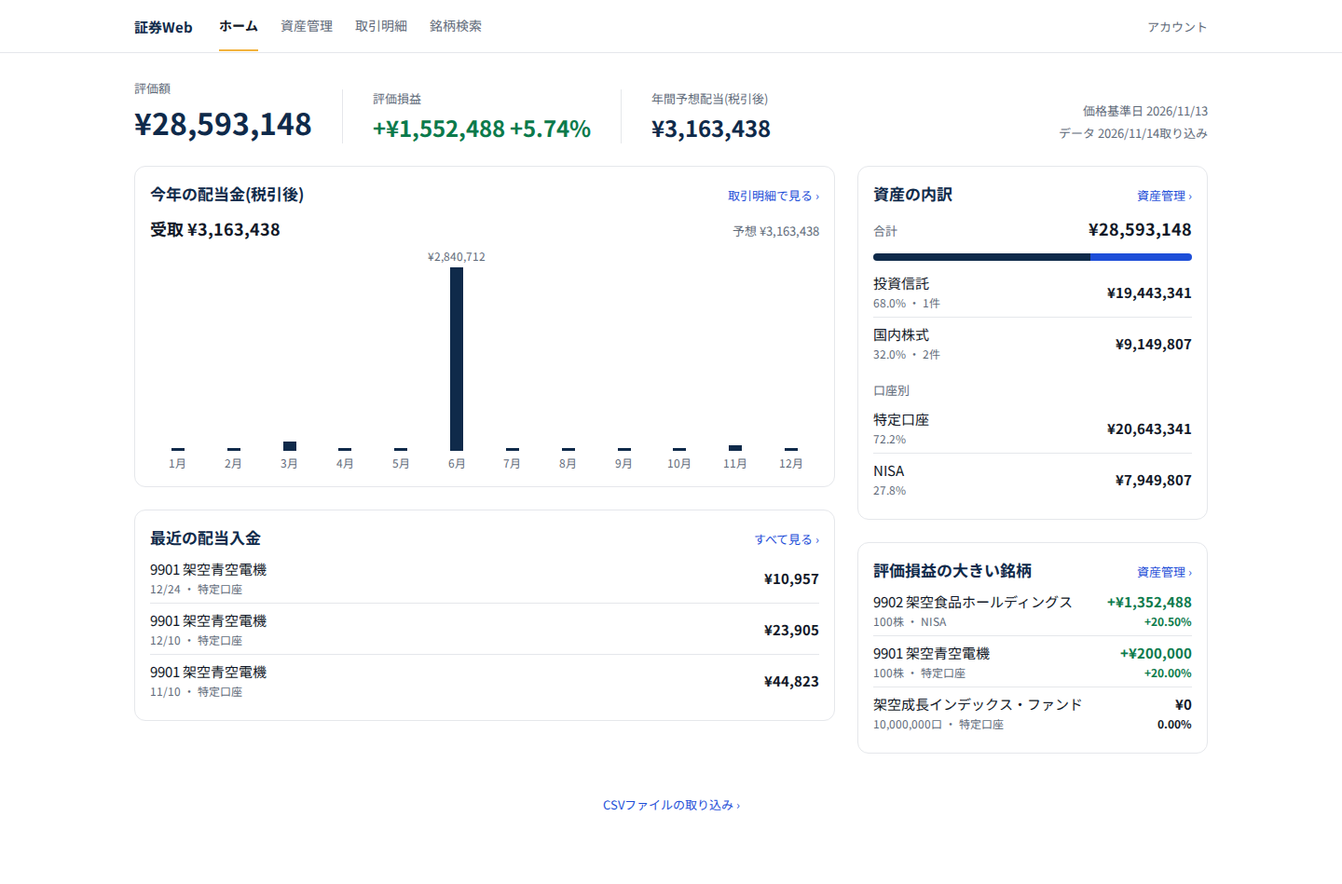
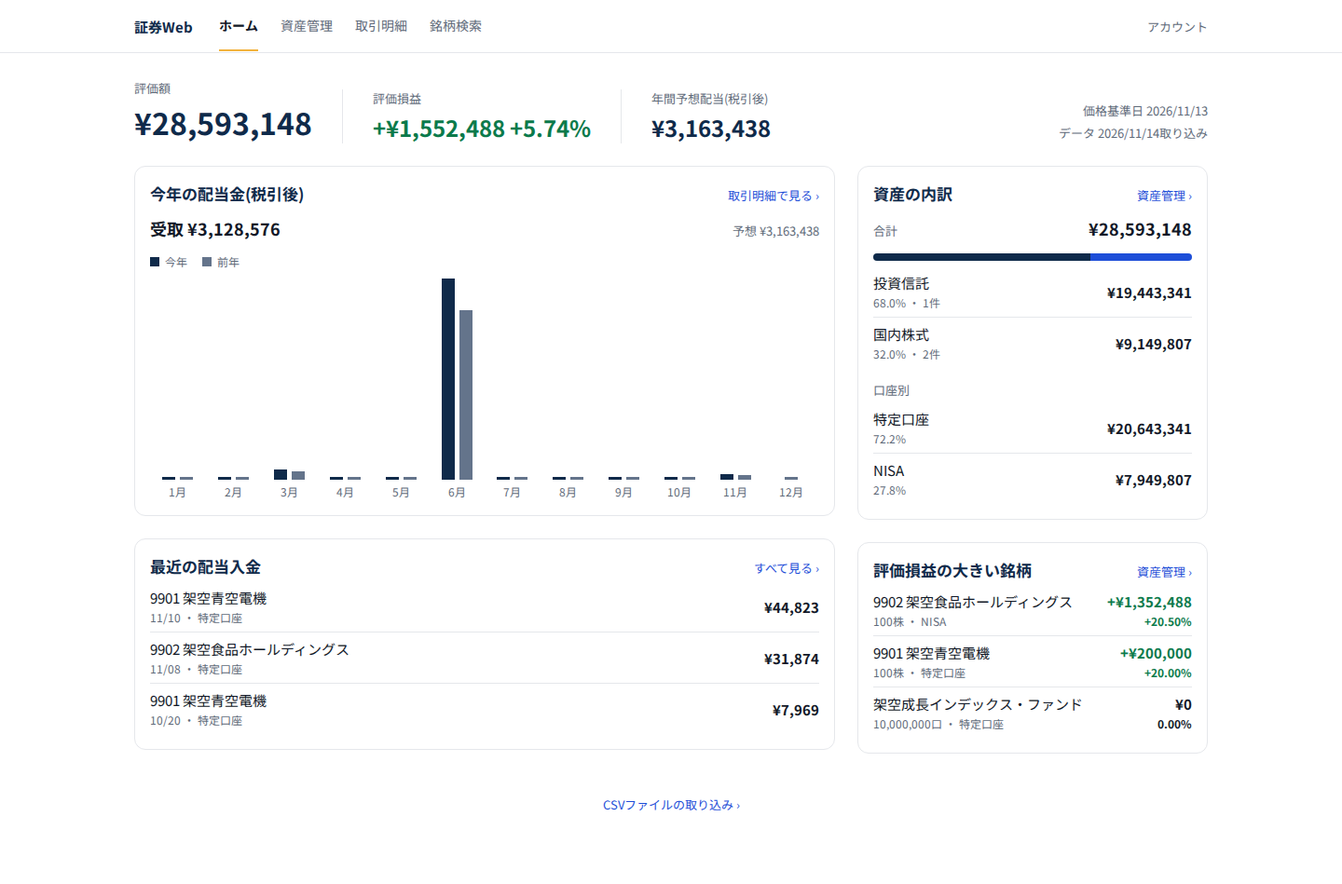
ホーム新案の差し戻し対応: 配当グラフを今年/前年の2本並び(共に税引後)に復元、受取は基準日までの税引後・最近は基準日以前の直近3件、build 402 asserts通過

Changed region(s): [[0.0938, 0.275, 0.625, 0.8251], [0.125, 0.2445, 0.2188, 0.3056]]

diff --git a/docs/design/work/phase8-visual/home-pc.html b/docs/design/work/phase8-visual/home-pc.html
@@ -8,7 +8,7 @@
 <link rel="preconnect" href="https://fonts.gstatic.com" crossorigin>
 <link href="https://fonts.googleapis.com/css2?family=Noto+Sans+JP:wght@400;700&display=swap" rel="stylesheet">
 <style>
-/* 数値は docs/design/work/phase5-codex/data/fixtures.json の架空データ(評価額 ¥28,593,148、評価損益 +¥1,552,488 +5.74%、年間予想配当(税引後) ¥3,163,438、受取(税引後) ¥3,163,438)。色は frontend/style/input.css の現行トークンのみ。面の塗りは棒グラフと割合の横棒だけ。 */
+/* 数値は docs/design/work/phase5-codex/data/fixtures.json の架空データ(評価額 ¥28,593,148、評価損益 +¥1,552,488 +5.74%、年間予想配当(税引後) ¥3,163,438、受取(基準日2026/11/13まで・税引後) ¥3,128,576)。色は frontend/style/input.css の現行トークンのみ。面の塗りは棒グラフと割合の横棒だけ。 */
 :root{
   --page:#ffffff; --card:#ffffff; --ink:#111827; --mut:#5f6b7a; --line:#e5e7eb;
   --navy:#0f2a4a; --accent:#1d4ed8; --up:#0b7a4b; --down:#c0362c;
@@ -76,13 +76,15 @@ body{margin:0; background:var(--page); color:var(--ink);
 .bar100 .a{background:var(--comp-a); width:68.0%}
 .bar100 .b{background:var(--comp-b); width:32.0%}
 .subhead{font-size:13px; color:var(--mut); margin:14px 0 0; white-space:nowrap}
-/* 棒グラフ: 高さ240px。税引後の単棒。月ラベル1〜12月すべて12px。6月に税引後 ¥2,840,712 の値ラベル */
+/* 棒グラフ: 高さ240px。今年と前年の2本並び(どちらも税引後)。月ラベル1〜12月すべて12px、値ラベルなし。12月は基準日後のため今年の棒なし */
+.legend{display:flex; gap:16px; font-size:12px; color:var(--mut); margin-top:14px}
+.legend .sw{display:inline-block; width:10px; height:10px; margin-right:6px}
 .bars{display:flex; align-items:stretch; height:240px; margin-top:8px}
 .bars .g{flex:1; display:flex; flex-direction:column; justify-content:flex-end; align-items:center; min-width:0}
-.bars .pair{flex:1; display:flex; flex-direction:column; align-items:center; justify-content:flex-end; gap:4px; width:100%; min-height:0}
+.bars .pair{flex:1; display:flex; align-items:flex-end; justify-content:center; gap:5px; width:100%; min-height:0}
 .bars .b{width:14px; min-height:3px}
 .bars .b.cur{background:var(--bar-cur)}
-.bars .v{font-size:12px; color:var(--mut); white-space:nowrap; font-variant-numeric:tabular-nums}
+.bars .b.prev{background:var(--bar-prev)}
 .bars .m{font-size:12px; color:var(--mut); height:18px; line-height:18px; white-space:nowrap; margin-top:4px}
 .footlink{display:flex; justify-content:center; align-items:center; min-height:44px; margin-top:32px; font-size:13px; color:var(--accent); white-space:nowrap}
 @media (max-width:900px){
@@ -112,29 +114,30 @@ body{margin:0; background:var(--page); color:var(--ink);
     <div class="col">
       <section class="card" aria-label="今年の配当金">
         <div class="hrow"><h2>今年の配当金(税引後)</h2><span class="more">取引明細で見る ›</span></div>
-        <div class="sum"><span class="recv num">受取 ¥3,163,438</span><span class="fore num">予想 ¥3,163,438</span></div>
-        <div class="bars" role="img" aria-label="月別配当(税引後): 6月 ¥2,840,712に集中">
-          <div class="g"><div class="pair"><span class="b cur" style="height:3px"></span></div><span class="m">1月</span></div>
-          <div class="g"><div class="pair"><span class="b cur" style="height:3px"></span></div><span class="m">2月</span></div>
-          <div class="g"><div class="pair"><span class="b cur" style="height:10px"></span></div><span class="m">3月</span></div>
-          <div class="g"><div class="pair"><span class="b cur" style="height:3px"></span></div><span class="m">4月</span></div>
-          <div class="g"><div class="pair"><span class="b cur" style="height:3px"></span></div><span class="m">5月</span></div>
-          <div class="g"><div class="pair"><span class="v num">¥2,840,712</span><span class="b cur" style="height:205px"></span></div><span class="m">6月</span></div>
-          <div class="g"><div class="pair"><span class="b cur" style="height:3px"></span></div><span class="m">7月</span></div>
-          <div class="g"><div class="pair"><span class="b cur" style="height:3px"></span></div><span class="m">8月</span></div>
-          <div class="g"><div class="pair"><span class="b cur" style="height:3px"></span></div><span class="m">9月</span></div>
-          <div class="g"><div class="pair"><span class="b cur" style="height:3px"></span></div><span class="m">10月</span></div>
-          <div class="g"><div class="pair"><span class="b cur" style="height:6px"></span></div><span class="m">11月</span></div>
-          <div class="g"><div class="pair"><span class="b cur" style="height:3px"></span></div><span class="m">12月</span></div>
+        <div class="sum"><span class="recv num">受取 ¥3,128,576</span><span class="fore num">予想 ¥3,163,438</span></div>
+        <div class="legend"><span><span class="sw" style="background:var(--bar-cur)"></span>今年</span><span><span class="sw" style="background:var(--bar-prev)"></span>前年</span></div>
+        <div class="bars" role="img" aria-label="月別配当(税引後): 今年と前年。12月は基準日後のため今年なし">
+          <div class="g"><div class="pair"><span class="b cur" style="height:3px"></span><span class="b prev" style="height:3px"></span></div><span class="m">1月</span></div>
+          <div class="g"><div class="pair"><span class="b cur" style="height:3px"></span><span class="b prev" style="height:3px"></span></div><span class="m">2月</span></div>
+          <div class="g"><div class="pair"><span class="b cur" style="height:11px"></span><span class="b prev" style="height:9px"></span></div><span class="m">3月</span></div>
+          <div class="g"><div class="pair"><span class="b cur" style="height:3px"></span><span class="b prev" style="height:3px"></span></div><span class="m">4月</span></div>
+          <div class="g"><div class="pair"><span class="b cur" style="height:3px"></span><span class="b prev" style="height:3px"></span></div><span class="m">5月</span></div>
+          <div class="g"><div class="pair"><span class="b cur" style="height:216px"></span><span class="b prev" style="height:182px"></span></div><span class="m">6月</span></div>
+          <div class="g"><div class="pair"><span class="b cur" style="height:3px"></span><span class="b prev" style="height:3px"></span></div><span class="m">7月</span></div>
+          <div class="g"><div class="pair"><span class="b cur" style="height:3px"></span><span class="b prev" style="height:3px"></span></div><span class="m">8月</span></div>
+          <div class="g"><div class="pair"><span class="b cur" style="height:3px"></span><span class="b prev" style="height:3px"></span></div><span class="m">9月</span></div>
+          <div class="g"><div class="pair"><span class="b cur" style="height:3px"></span><span class="b prev" style="height:3px"></span></div><span class="m">10月</span></div>
+          <div class="g"><div class="pair"><span class="b cur" style="height:6px"></span><span class="b prev" style="height:5px"></span></div><span class="m">11月</span></div>
+          <div class="g"><div class="pair"><span class="b prev" style="height:3px"></span></div><span class="m">12月</span></div>
         </div>
       </section>
 
       <section class="card" aria-label="最近の配当入金">
         <div class="hrow"><h2>最近の配当入金</h2><span class="more">すべて見る ›</span></div>
         <div class="rows">
-          <div class="row"><div class="left"><div class="name">9901 架空青空電機</div><span class="sub num">12/24 ・ 特定口座</span></div><span class="amt num">¥10,957</span></div>
-          <div class="row"><div class="left"><div class="name">9901 架空青空電機</div><span class="sub num">12/10 ・ 特定口座</span></div><span class="amt num">¥23,905</span></div>
           <div class="row"><div class="left"><div class="name">9901 架空青空電機</div><span class="sub num">11/10 ・ 特定口座</span></div><span class="amt num">¥44,823</span></div>
+          <div class="row"><div class="left"><div class="name">9902 架空食品ホールディングス</div><span class="sub num">11/08 ・ 特定口座</span></div><span class="amt num">¥31,874</span></div>
+          <div class="row"><div class="left"><div class="name">9901 架空青空電機</div><span class="sub num">10/20 ・ 特定口座</span></div><span class="amt num">¥7,969</span></div>
         </div>
       </section>
     </div>

diff --git a/docs/design/work/phase8-visual/home-mobile.html b/docs/design/work/phase8-visual/home-mobile.html
@@ -8,7 +8,7 @@
 <link rel="preconnect" href="https://fonts.gstatic.com" crossorigin>
 <link href="https://fonts.googleapis.com/css2?family=Noto+Sans+JP:wght@400;700&display=swap" rel="stylesheet">
 <style>
-/* 数値は docs/design/work/phase5-codex/data/fixtures.json の架空データ(評価額 ¥28,593,148、評価損益 +¥1,552,488 +5.74%、年間予想配当(税引後) ¥3,163,438、受取(税引後) ¥3,163,438)。色は frontend/style/input.css の現行トークンのみ。面の塗りは棒グラフと割合の横棒だけ。 */
+/* 数値は docs/design/work/phase5-codex/data/fixtures.json の架空データ(評価額 ¥28,593,148、評価損益 +¥1,552,488 +5.74%、年間予想配当(税引後) ¥3,163,438、受取(基準日2026/11/13まで・税引後) ¥3,128,576)。色は frontend/style/input.css の現行トークンのみ。面の塗りは棒グラフと割合の横棒だけ。 */
 :root{
   --page:#ffffff; --card:#ffffff; --ink:#111827; --mut:#5f6b7a; --line:#e5e7eb;
   --navy:#0f2a4a; --accent:#1d4ed8; --up:#0b7a4b; --down:#c0362c;
@@ -71,13 +71,15 @@ body{margin:0; background:var(--page); color:var(--ink);
 .bar100 .a{background:var(--comp-a); width:68.0%}
 .bar100 .b{background:var(--comp-b); width:32.0%}
 .subhead{font-size:13px; color:var(--mut); margin:14px 0 0; white-space:nowrap}
-/* 棒グラフ: 高さ170px。税引後の単棒。月は1・4・7・10だけ11px。6月に税引後 ¥2,840,712 の値ラベル */
+/* 棒グラフ: 高さ170px。今年と前年の2本並び(どちらも税引後)。月は1・4・7・10だけ11px、値ラベルなし。12月は基準日後のため今年の棒なし */
+.legend{display:flex; gap:16px; font-size:12px; color:var(--mut); margin-top:14px}
+.legend .sw{display:inline-block; width:10px; height:10px; margin-right:6px}
 .bars{display:flex; align-items:stretch; height:170px; margin-top:8px}
 .bars .g{flex:1; display:flex; flex-direction:column; justify-content:flex-end; align-items:center; min-width:0}
-.bars .pair{flex:1; display:flex; flex-direction:column; align-items:center; justify-content:flex-end; gap:4px; width:100%; min-height:0}
+.bars .pair{flex:1; display:flex; align-items:flex-end; justify-content:center; gap:4px; width:100%; min-height:0}
 .bars .b{width:8px; min-height:3px}
 .bars .b.cur{background:var(--bar-cur)}
-.bars .v{font-size:11px; color:var(--mut); white-space:nowrap; font-variant-numeric:tabular-nums}
+.bars .b.prev{background:var(--bar-prev)}
 .bars .m{font-size:11px; color:var(--mut); height:16px; line-height:16px; white-space:nowrap; margin-top:4px}
 /* 最下部の控えめな文字リンク */
 .footlink{display:flex; justify-content:center; align-items:center; min-height:44px; margin-top:20px; font-size:13px; color:var(--accent); white-space:nowrap}
@@ -102,20 +104,21 @@ body{margin:0; background:var(--page); color:var(--ink);
 
   <section class="card" aria-label="今年の配当金">
     <div class="hrow"><h2>今年の配当金(税引後)</h2><span class="more">取引明細で見る ›</span></div>
-    <div class="sum"><span class="recv num">受取 ¥3,163,438</span><span class="fore num">予想 ¥3,163,438</span></div>
-    <div class="bars" role="img" aria-label="月別配当(税引後): 6月 ¥2,840,712に集中">
-      <div class="g"><div class="pair"><span class="b cur" style="height:3px"></span></div><span class="m">1月</span></div>
-      <div class="g"><div class="pair"><span class="b cur" style="height:3px"></span></div><span class="m"></span></div>
-      <div class="g"><div class="pair"><span class="b cur" style="height:7px"></span></div><span class="m"></span></div>
-      <div class="g"><div class="pair"><span class="b cur" style="height:3px"></span></div><span class="m">4月</span></div>
-      <div class="g"><div class="pair"><span class="b cur" style="height:3px"></span></div><span class="m"></span></div>
-      <div class="g"><div class="pair"><span class="v num">¥2,840,712</span><span class="b cur" style="height:142px"></span></div><span class="m"></span></div>
-      <div class="g"><div class="pair"><span class="b cur" style="height:3px"></span></div><span class="m">7月</span></div>
-      <div class="g"><div class="pair"><span class="b cur" style="height:3px"></span></div><span class="m"></span></div>
-      <div class="g"><div class="pair"><span class="b cur" style="height:3px"></span></div><span class="m"></span></div>
-      <div class="g"><div class="pair"><span class="b cur" style="height:3px"></span></div><span class="m">10月</span></div>
-      <div class="g"><div class="pair"><span class="b cur" style="height:4px"></span></div><span class="m"></span></div>
-      <div class="g"><div class="pair"><span class="b cur" style="height:3px"></span></div><span class="m"></span></div>
+    <div class="sum"><span class="recv num">受取 ¥3,128,576</span><span class="fore num">予想 ¥3,163,438</span></div>
+    <div class="legend"><span><span class="sw" style="background:var(--bar-cur)"></span>今年</span><span><span class="sw" style="background:var(--bar-prev)"></span>前年</span></div>
+    <div class="bars" role="img" aria-label="月別配当(税引後): 今年と前年。12月は基準日後のため今年なし">
+      <div class="g"><div class="pair"><span class="b cur" style="height:3px"></span><span class="b prev" style="height:3px"></span></div><span class="m">1月</span></div>
+      <div class="g"><div class="pair"><span class="b cur" style="height:3px"></span><span class="b prev" style="height:3px"></span></div><span class="m"></span></div>
+      <div class="g"><div class="pair"><span class="b cur" style="height:8px"></span><span class="b prev" style="height:6px"></span></div><span class="m"></span></div>
+      <div class="g"><div class="pair"><span class="b cur" style="height:3px"></span><span class="b prev" style="height:3px"></span></div><span class="m">4月</span></div>
+      <div class="g"><div class="pair"><span class="b cur" style="height:3px"></span><span class="b prev" style="height:3px"></span></div><span class="m"></span></div>
+      <div class="g"><div class="pair"><span class="b cur" style="height:150px"></span><span class="b prev" style="height:126px"></span></div><span class="m"></span></div>
+      <div class="g"><div class="pair"><span class="b cur" style="height:3px"></span><span class="b prev" style="height:3px"></span></div><span class="m">7月</span></div>
+      <div class="g"><div class="pair"><span class="b cur" style="height:3px"></span><span class="b prev" style="height:3px"></span></div><span class="m"></span></div>
+      <div class="g"><div class="pair"><span class="b cur" style="height:3px"></span><span class="b prev" style="height:3px"></span></div><span class="m"></span></div>
+      <div class="g"><div class="pair"><span class="b cur" style="height:3px"></span><span class="b prev" style="height:3px"></span></div><span class="m">10月</span></div>
+      <div class="g"><div class="pair"><span class="b cur" style="height:4px"></span><span class="b prev" style="height:3px"></span></div><span class="m"></span></div>
+      <div class="g"><div class="pair"><span class="b prev" style="height:3px"></span></div><span class="m"></span></div>
     </div>
   </section>
 
@@ -137,9 +140,9 @@ body{margin:0; background:var(--page); color:var(--ink);
   <section class="card" aria-label="最近の配当入金">
     <div class="hrow"><h2>最近の配当入金</h2><span class="more">すべて見る ›</span></div>
     <div class="rows">
-      <div class="row"><div class="left"><div class="name">9901 架空青空電機</div><span class="sub num">12/24 ・ 特定口座</span></div><span class="amt num">¥10,957</span></div>
-      <div class="row"><div class="left"><div class="name">9901 架空青空電機</div><span class="sub num">12/10 ・ 特定口座</span></div><span class="amt num">¥23,905</span></div>
       <div class="row"><div class="left"><div class="name">9901 架空青空電機</div><span class="sub num">11/10 ・ 特定口座</span></div><span class="amt num">¥44,823</span></div>
+      <div class="row"><div class="left"><div class="name">9902 架空食品ホールディングス</div><span class="sub num">11/08 ・ 特定口座</span></div><span class="amt num">¥31,874</span></div>
+      <div class="row"><div class="left"><div class="name">9901 架空青空電機</div><span class="sub num">10/20 ・ 特定口座</span></div><span class="amt num">¥7,969</span></div>
     </div>
   </section>
 

diff --git a/docs/design/work/phase8-visual/README.md b/docs/design/work/phase8-visual/README.md
@@ -1,19 +1,19 @@
 # Phase 8 ホーム新案(スマホ・PC)
 
-`home-mobile.html`(390px)と `home-pc.html`(1280/1440px)の2ファイル。数値はすべて `../phase5-codex/data/fixtures.json` の架空データを直書き(評価額 ¥28,593,148 = 国内株式 ¥9,149,807 + 投資信託 ¥19,443,341、評価損益 +¥1,552,488 +5.74%、年間予想配当(税引後) ¥3,163,438、受取(税引後) ¥3,163,438、最近の配当入金3件、評価損益の大きい銘柄3件)。受取と予想はどちらも税引後にそろえている(並べる2つの数字は同じ基準にする)。年間予想(税引後)は fixtures の `annualForecast.afterTax`(税引前 ¥3,969,907 − 税額 ¥806,469 = ¥3,163,438)に足し、`node data/build.mjs` の検査(382 asserts)を通過。fixture上は通年の配当実績が予想と一致するため、予想と受取は同額になる。現行のホームに載っている内容だけを載せ、保有一覧の全件・前日比は足していない。`?theme=light|dark` と `prefers-color-scheme` でライト/ダーク切替。撮影は `tools/shoot.py`(Playwright)。
+`home-mobile.html`(390px)と `home-pc.html`(1280/1440px)の2ファイル。数値はすべて `../phase5-codex/data/fixtures.json` の架空データを直書き(評価額 ¥28,593,148 = 国内株式 ¥9,149,807 + 投資信託 ¥19,443,341、評価損益 +¥1,552,488 +5.74%、年間予想配当(税引後) ¥3,163,438、受取(基準日2026/11/13までの税引後) ¥3,128,576、最近の配当入金3件(基準日以前)、評価損益の大きい銘柄3件)。受取と予想はどちらも税引後にそろえている(並べる2つの数字は同じ基準にする)。年間予想(税引後)は fixtures の `annualForecast.afterTax`(税引前 ¥3,969,907 − 税額 ¥806,469 = ¥3,163,438)、前年は月別に `tax`/`afterTax`(合計 ¥2,660,681)を足し、`node data/build.mjs` の検査(402 asserts: 受取≤予想・入金日≤基準日・前年税引後=税引前−税額を含む)を通過。基準日(価格基準日 2026/11/13)より後の入金(12/10・12/24)は受取・最近・今年の棒に入れない。現行のホームに載っている内容だけを載せ、保有一覧の全件・前日比は足していない。`?theme=light|dark` と `prefers-color-scheme` でライト/ダーク切替。撮影は `tools/shoot.py`(Playwright)。
 
 ## 現行から変えた点
 
 スマホ3点:
 
 1. 一番上を3要素だけにした(ラベル「評価額」→評価額 30px左寄せ→評価損益 1行→価格基準日)。年間予想配当は一番上から外し、配当のセクションに入れた。
-2. 配当カードの「1611%」と細い進捗バーをやめ、要約は「受取 ¥3,163,438 / 予想 ¥3,163,438」の1行にした(どちらも税引後、fixtures annualForecast.afterTax)。棒グラフは170px・税引後の単棒・月ラベルは1・4・7・10月だけ・6月に税引後 ¥2,840,712 の値ラベルにした。前年は税引後の月別がないため載せない。
+2. 配当カードの「1611%」と細い進捗バーをやめ、要約は「受取 ¥3,128,576 / 予想 ¥3,163,438」の1行にした(どちらも税引後、受取は基準日2026/11/13までの16件)。棒グラフは170px・今年と前年の2本並び(どちらも税引後、凡例「今年/前年」)・月ラベルは1・4・7・10月だけ・値ラベルなし。12月は基準日後のため今年の棒なし。
 3. 円グラフと口座別の色札をやめ、資産の内訳は1本の横棒(8px・2色)+同じ行の型に統一した。CSVの取り込みは見出し帯から外し、ページ最下部の文字リンク1行にした。
 
 PC3点:
 
 1. 紺の帯をやめ、3つの数字(評価額 32px・評価損益 24px・年間予想配当(税引後) 24px、ラベル 13px灰)を地の上に横並び・縦の細い線区切りにした。価格基準日・取り込み日は右端に 13px灰で置いた。hero の予想は fixtures annualForecast.afterTax と明示し、本番の年間予想配当(税引前)とは基準を分けている。
-2. 下を2列(左2:右1、間24px)にし、左に今年の配当金(棒グラフ高さ240px、税引後の単棒、月ラベル12か月、6月に税引後 ¥2,840,712 の値ラベル)+最近の配当入金、右に資産の内訳+評価損益の大きい銘柄を置いた。
+2. 下を2列(左2:右1、間24px)にし、左に今年の配当金(棒グラフ高さ240px、今年と前年の2本並び・どちらも税引後・凡例「今年/前年」、月ラベル12か月、値ラベルなし、12月は基準日後のため今年の棒なし)+最近の配当入金(基準日以前の直近3件)、右に資産の内訳+評価損益の大きい銘柄を置いた。
 3. ドーナツと口座別の色札をやめ、横棒+行の型に統一した。最大幅 1200px・中央にした。
 
 ## 自己点検表(×: 0)
@@ -35,9 +35,9 @@ PC3点:
 | M1 | 一番上は3つだけ(ラベル12px灰→評価額30px太字紺・左寄せ→評価損益16px太字緑→価格基準日12px灰)。年間予想配当は出さない | ○ | `home-mobile-light.png`、`home-mobile-dark.png` |
 | M2 | 各セクションは白いカード(角丸12px、影なし、1px線、内側16px、カード間12px)。中は見出し16px太字+右に入口リンク13px青→要約→明細 | ○ | `home-mobile-light.png`(4カード)、`home-mobile-dark.png` |
 | M3 | 明細の行の型(全セクション共通): 高さ56px以上。左=名前15px(2段目補足12px灰)、右=金額15px太字・右そろえ | ○ | `home-mobile-light.png`。口座別も行の型で色札なし |
-| M4 | 配当の要約は「受取 ¥3,163,438」18px太字と「予想 ¥3,163,438」13px灰を1行(どちらも税引後で基準をそろえる)。達成率%・進捗バーなし。棒は高さ170px・税引後の単棒、月は1・4・7・10月だけ11px、6月に税引後 ¥2,840,712 の値ラベル | ○ | `home-mobile-light.png` |
+| M4 | 配当の要約は「受取 ¥3,128,576」18px太字と「予想 ¥3,163,438」13px灰を1行(どちらも税引後で基準をそろえる。受取は基準日までの16件)。達成率%・進捗バーなし。棒は高さ170px・今年と前年の2本並び(どちらも税引後、凡例「今年/前年」)、月は1・4・7・10月だけ11px、値ラベルなし、12月は基準日後のため今年の棒なし | ○ | `home-mobile-light.png` |
 | M5 | 内訳は1本の横棒(高さ8px・2色)→資産種別の行→小見出し「口座別」13px灰→口座別の行 | ○ | `home-mobile-light.png`、`home-mobile-dark.png`(横棒は現行系列色) |
-| M6 | 最近の配当入金3件・評価損益の大きい銘柄3件を行の型で | ○ | `home-mobile-light.png`。銘柄行の右は `+金額 +%` の2段 |
+| M6 | 最近の配当入金3件(基準日以前の直近: 11/10 ¥44,823・11/08 ¥31,874・10/20 ¥7,969)・評価損益の大きい銘柄3件を行の型で | ○ | `home-mobile-light.png`。銘柄行の右は `+金額 +%` の2段 |
 | M7 | 下に固定のナビ(現行と同じ4項目、アイコン+文字、各44px以上) | ○ | `home-mobile-light.png`(最下部に固定表示)。各項目は高さ60px |
 
 PC:
@@ -46,7 +46,7 @@ PC:
 |---|---|---|---|
 | P1 | 上に横並びのナビ(現行と同じ4項目)とアカウント。帯の塗りなし、下に1pxの線だけ | ○ | `home-pc-1280-light.png`、`home-pc-1440-dark.png` |
 | P2 | 一番上は3数字横並び(評価額32px・評価損益24px・年間予想配当(税引後)24px、ラベル13px灰)。区切りは縦の細い線。帯やカードで囲まない。価格基準日・取り込み日は右端13px灰 | ○ | `home-pc-1280-light.png`、`home-pc-1440-light.png` |
-| P3 | 下は2列(左2:右1、間24px)。左=配当(棒高さ240px・税引後の単棒・月1〜12月すべて12px・6月に税引後値ラベル)+最近の配当入金、右=内訳+損益銘柄 | ○ | `home-pc-1280-light.png`、`home-pc-1280-dark.png` |
+| P3 | 下は2列(左2:右1、間24px)。左=配当(棒高さ240px・今年と前年の2本並び・どちらも税引後・凡例「今年/前年」・月1〜12月すべて12px・値ラベルなし・12月は今年の棒なし)+最近の配当入金(基準日以前の直近3件)、右=内訳+損益銘柄 | ○ | `home-pc-1280-light.png`、`home-pc-1280-dark.png` |
 | P4 | カード・行・文字の型はスマホと同じ(見出し17px、行15px、行の高さ52px) | ○ | `home-pc-1440-light.png`、`home-pc-1440-dark.png` |
 | P5 | 最大幅1200px・中央 | ○ | `home-pc-1440-light.png`(左右の余白が均等) |
 

diff --git a/docs/design/work/phase5-codex/data-check.md b/docs/design/work/phase5-codex/data-check.md
@@ -1,6 +1,6 @@
 # Phase 5 Codex 数値検算
 
-このファイルは `node docs/design/work/phase5-codex/data/build.mjs` が生成する。金額は円単位に四捨五入し、投資信託は口数×基準価額÷10,000 で計算。全 382 assert 通過(不一致 0)。
+このファイルは `node docs/design/work/phase5-codex/data/build.mjs` が生成する。金額は円単位に四捨五入し、投資信託は口数×基準価額÷10,000 で計算。全 402 assert 通過(不一致 0)。
 
 | 項目 | 計算・内訳 | 判定 |
 |---|---|---|
@@ -9,7 +9,7 @@
 | 評価損益・損益率 | ¥28,593,148 − ¥27,040,660 = +¥1,552,488 (全体 5.74%); 行別率 9901 20.00% / 9902 20.50% / — 0.00% | OK |
 | 分類別割合 | ¥9,149,807 ÷ ¥28,593,148 = 32.0%; ¥19,443,341 ÷ ¥28,593,148 = 68.0% | OK |
 | 前日比 | ¥28,438,660 +¥154,488 = ¥28,593,148; ¥154,488 ÷ ¥28,438,660 = 0.5432% (表示 +0.5%) | OK |
-| 配当 | 月別税引前 ¥3,969,907 − 税額 ¥806,469 = 税引後 ¥3,163,438; 年間配当 ¥3,969,907; 年間予想(税引後) ¥3,163,438(fixtures annualForecast); 9901利回り 360 ÷ ¥12,000 = 3.00% | OK |
+| 配当 | 月別税引前 ¥3,969,907 − 税額 ¥806,469 = 税引後 ¥3,163,438; 年間配当 ¥3,969,907; 年間予想(税引後) ¥3,163,438(fixtures annualForecast); 受取(基準日2026/11/13まで) ¥3,128,576 ≤ 予想; 前年税引後合計 ¥2,660,681; 9901利回り 360 ÷ ¥12,000 = 3.00% | OK |
 | 件数 | 保有 3 件 (国内株式 2・投資信託 1); 配当銘柄 2 件 | OK |
 | 配当明細行 | 明細 18 行の月別合計が月別配当と一致(各月 1〜4 行)。新しい順の上位 2 行(2026/12/24 9901 ¥10,957 / 2026/12/10 9901 ¥23,905)をホーム・ダイアログに表示 | OK |
 | 株式売買行 | 売買 3 行: 2026/01/15 9901 -¥5,000 / 2026/02/09 9902 +¥80,536 / 2026/03/02 9901 +¥50,000; 年合計 +¥125,536(税引前) − ¥26,519 = +¥99,017(税引後) | OK |
